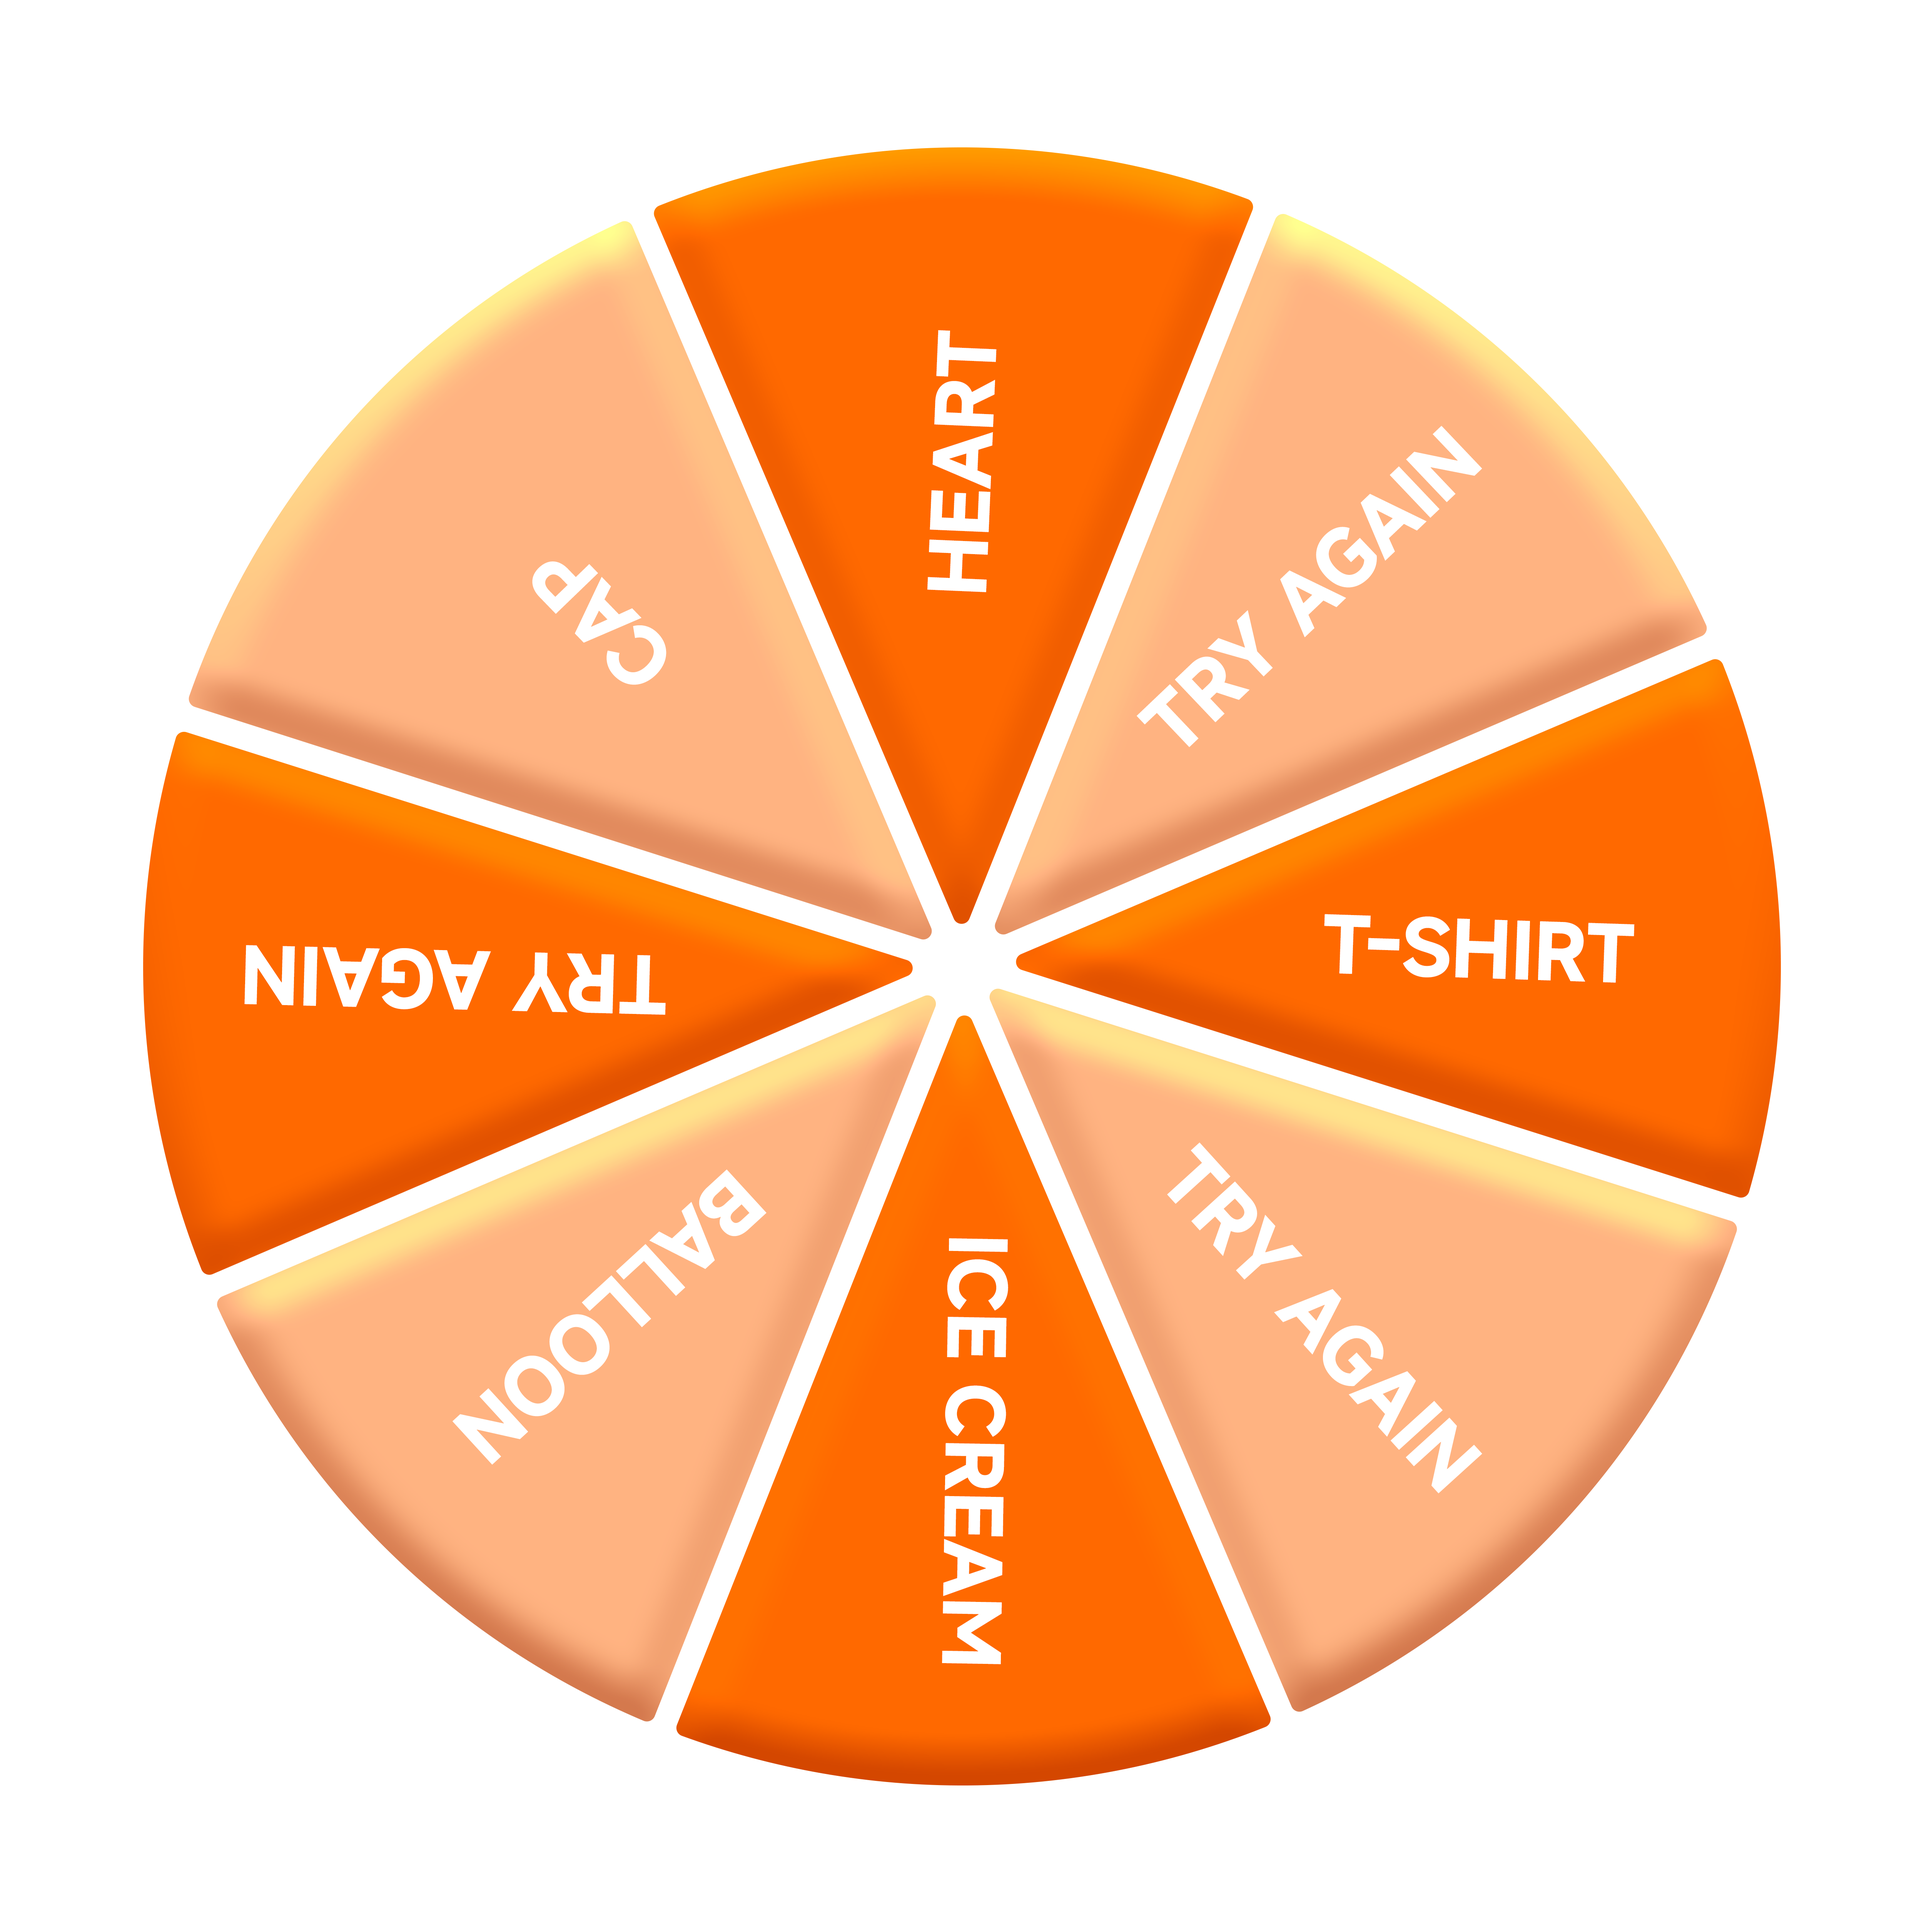
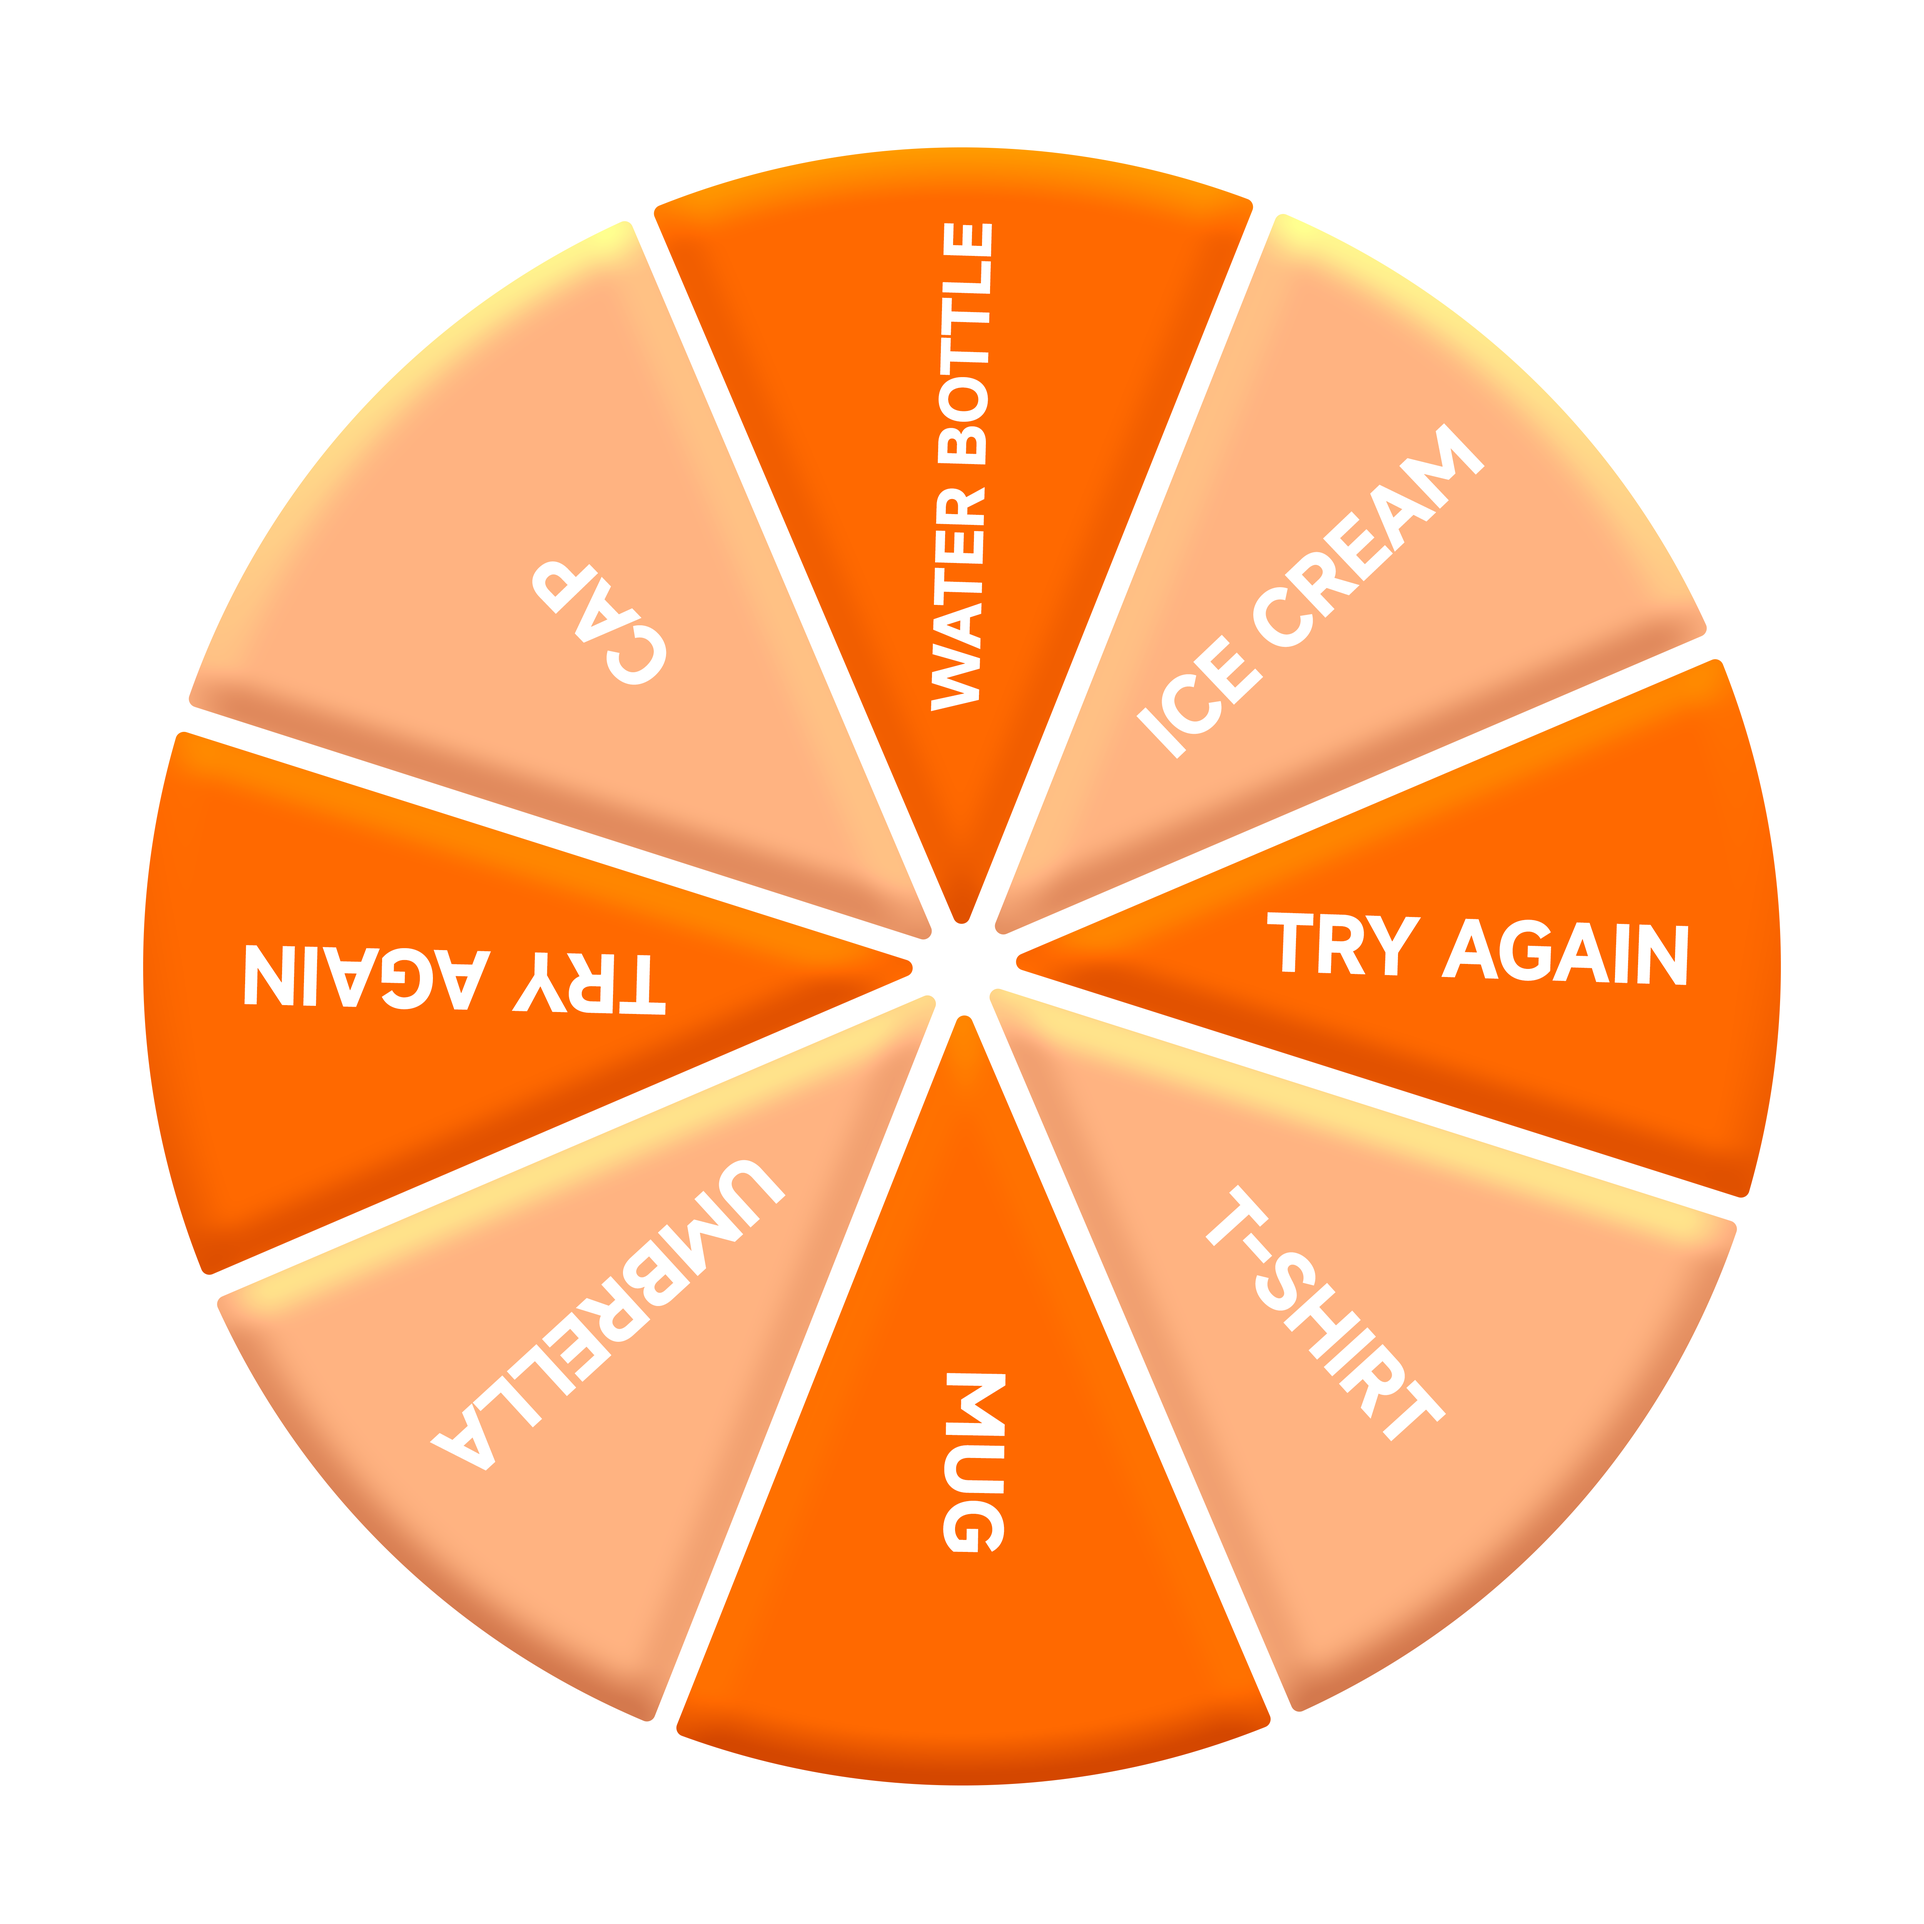
Updates

diff --git a/resources/views/welcome.blade.php b/resources/views/welcome.blade.php
@@ -716,16 +716,16 @@
                             <div
                                 class="wheel"
                                 data-wheel
-                                data-segments='["Heart","Try Again","T-Shirt","Try Again","Ice Cream","Balloon","Try Again","Cap"]'
+                                data-segments='["Water bottle","Ice cream","Try again","T shirt","Mug","Umbrella","Try again","Cap"]'
                             >
                                 @foreach ([
-                                    'Heart',
-                                    'Try Again',
-                                    'T-Shirt',
-                                    'Try Again',
-                                    'Ice Cream',
-                                    'Balloon',
-                                    'Try Again',
+                                    'Water bottle',
+                                    'Ice cream',
+                                    'Try again',
+                                    'T shirt',
+                                    'Mug',
+                                    'Umbrella',
+                                    'Try again',
                                     'Cap',
                                 ] as $index => $label)
                                     <div class="wheel__label" style="--index: {{ $index }}">
